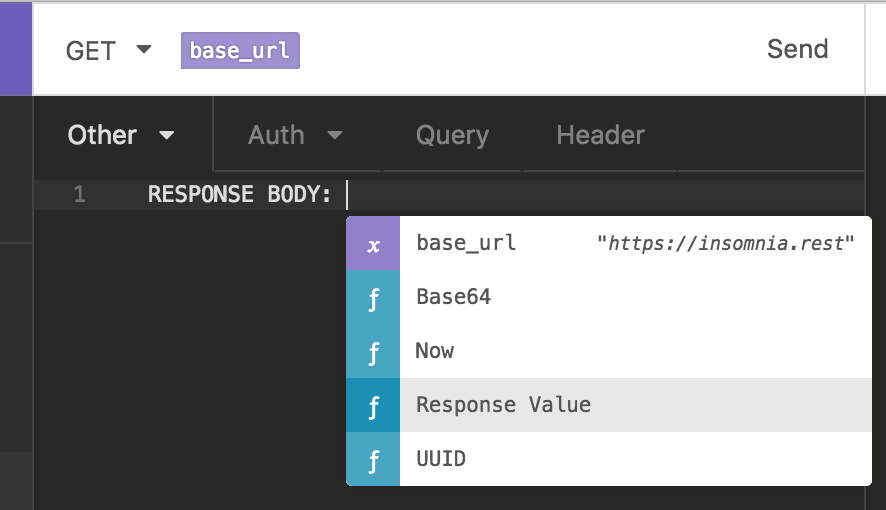
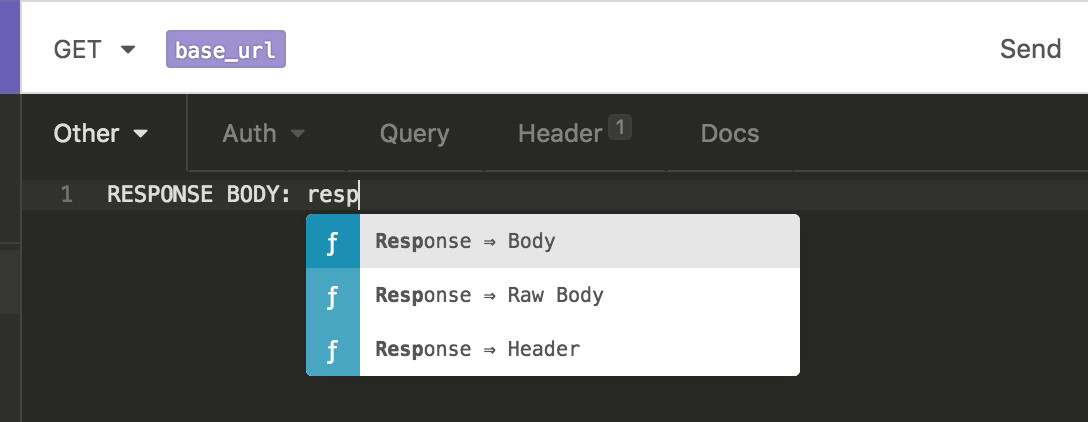
Updated docs

diff --git a/site/layouts/documentation/list.html b/site/layouts/documentation/list.html
@@ -1,5 +1,5 @@
 {{ partial "head" . }}
-<body class="template-docs">
+<body class="template-wide">
 
 {{ partial "navbar" . }}
 
@@ -7,36 +7,34 @@
   <div class="container">
     <div class="row">
       {{ partial "docs-sidebar" . }}
-      <div class="col-8">
-        <article class="docs-main">
-          <header><h1>Documentation</h1></header>
+      <article class="col-8 docs-content">
+        <header><h1>Documentation</h1></header>
+        <section class="content">
+          <p>
+            Welcome to the documentation for <a href="/">Insomnia</a>.
+            Insomnia is a beautiful cross-platform application for organizing, running, and
+            debugging HTTP requests.
+          </p>
 
-          <section class="content">
-            <p>
-              Welcome to the documentation for <a href="/">Insomnia</a>.
-              Insomnia is a beautiful cross-platform application for organizing, running, and
-              debugging HTTP requests.
-            </p>
+          <p>
+            <img alt="Screenshot of Insomnia HTTP Client" src="/images/docs/promo.png"/>
+          </p>
 
-            <p>
-              <img alt="Screenshot of Insomnia HTTP Client" src="/images/docs/promo.png"/>
-            </p>
+          <p>
+            Here are a few useful links to get you started.
+          </p>
 
-            <p>
-              Here are a few useful links to get you started.
-            </p>
+          <ul>
+            <li>Stuck? <a href="/documentation/faq">Frequently Asked Questions</a></li>
+            <li>Upgrading from the Chrome app? <a href="/documentation/migrate-from-chrome">Upgrade
+              Guide</a></li>
+            <li>Need more help? <a href="/documentation/support-and-feedback">Get in Touch</a></li>
+            <li>Curious about the product? <a href="/documentation/backstory">Backstory</a></li>
+          </ul>
+        </section>
 
-            <ul>
-              <li>Stuck? <a href="/documentation/faq">Frequently Asked Questions</a></li>
-              <li>Upgrading from the Chrome app? <a href="/documentation/migrate-from-chrome">Upgrade Guide</a></li>
-              <li>Need more help? <a href="/documentation/support-and-feedback">Get in Touch</a></li>
-              <li>Curious about the product? <a href="/documentation/backstory">Backstory</a></li>
-            </ul>
-          </section>
-
-          {{ partial "contribution-notice" . }}
-        </article>
-      </div>
+        {{ partial "contribution-notice" . }}
+      </article>
     </div>
   </div>
 

diff --git a/site/static/css/main.css b/site/static/css/main.css
@@ -313,7 +313,7 @@ article h3[id]:hover::before {
 /* ~~~~~~~ */
 
 .docs-sidebar {
-    margin-left: 0;
+    max-width: 15rem;
 }
 
 .docs-sidebar ul {
@@ -323,11 +323,12 @@ article h3[id]:hover::before {
 
 .docs-sidebar li {
     list-style: none;
+    width: 100%;
 }
 
 .docs-sidebar__entry {
     padding: 0.2rem 0;
-    display: block;
+    display: inline-block;
     font-weight: normal;
 }
 
@@ -455,23 +456,28 @@ body[data-logged-in="no"] .show-logged-out {
         content: "↓";
     }
 
-    .navbar__items li[data-menu-item="download"] {
-        display: none;
-    }
-}
-
-@media only screen and (max-width: 58rem) {
     .docs-sidebar {
         border-bottom: 1px solid #eee;
         padding-bottom: 2rem;
+        max-width: none;
     }
 
     .docs-sidebar li {
         display: inline-block;
+        width: auto;
     }
 
-    .docs-sidebar__entry {
-        margin: 0 1rem
+    .docs-sidebar li {
+        margin-right: 0.5rem;
+    }
+
+    .docs-sidebar li:not(:last-child)::after {
+        margin-left: 0.5rem;
+        content: '|';
+    }
+
+    .navbar__items li[data-menu-item="download"] {
+        display: none;
     }
 }
 

diff --git a/site/themes/hugo-insomnia-theme/layouts/documentation/single.html b/site/themes/hugo-insomnia-theme/layouts/documentation/single.html
@@ -1,5 +1,5 @@
 {{ partial "head" . }}
-<body class="template-docs">
+<body class="template-wide">
 
 {{ partial "navbar" . }}
 
@@ -7,22 +7,20 @@
   <div class="container">
     <div class="row">
       {{ partial "docs-sidebar" . }}
-      <div class="col-8">
-        <article class="docs-main">
-          <header>
-            <h1>{{ .Title | title }}</h1>
-            {{ if isset .Params "subtitle" }}
-            <strong class="subtle">{{ .Params.subtitle | markdownify }}</strong>
-            {{ end }}
-          </header>
+      <article class="col-8 docs-content">
+        <header>
+          <h1>{{ .Title | title }}</h1>
+          {{ if isset .Params "subtitle" }}
+          <strong class="subtle">{{ .Params.subtitle | markdownify }}</strong>
+          {{ end }}
+        </header>
 
-          <section class="content">
-            {{ .Content }}
-          </section>
+        <section class="content">
+          {{ .Content }}
+        </section>
 
-          {{ partial "contribution-notice" . }}
-        </article>
-      </div>
+        {{ partial "contribution-notice" . }}
+      </article>
     </div>
   </div>
 

diff --git a/webpack.config.babel.js b/webpack.config.babel.js
@@ -1,7 +1,6 @@
 import webpack from 'webpack';
 import path from 'path';
 
-const libraryName = 'app';
 const isDev = process.env.NODE_ENV !== 'production';
 
 let outputFile;
@@ -11,13 +10,13 @@ let stripePubKey;
 let extraPlugins;
 
 if (isDev) {
-  outputFile = `${libraryName}.min.js`;
+  outputFile = `[name].min.js`;
   devtool = 'source-map';
   env = 'development';
   stripePubKey = 'pk_test_MbOhGu5jCPvr7Jt4VC6oySdH';
   extraPlugins = [];
 } else {
-  outputFile = `${libraryName}.min.js`;
+  outputFile = `[name].min.js`;
   devtool = 'source-map';
   env = 'production';
   stripePubKey = 'pk_live_lntbVSXY3v1RAytACIQJ5BBH';
@@ -33,14 +32,14 @@ if (isDev) {
 
 export default {
   context: path.join(__dirname, './src'),
-  entry: [
-    './index.js'
-  ],
+  entry: {
+    app: './index.js',
+    main: './main.js'
+  },
   devtool,
   output: {
     path: path.resolve('./site/static/javascript/build'),
     filename: outputFile,
-    library: libraryName,
     libraryTarget: 'umd',
     umdNamedDefine: true
   },

diff --git a/site/themes/hugo-insomnia-theme/static/css/base.css b/site/themes/hugo-insomnia-theme/static/css/base.css
@@ -998,8 +998,9 @@ body.template-skinny main {
     margin-right: auto;
 }
 
-body.template-wide main {
-    max-width: 100%;
+body.template-wide .container {
+    max-width: 60rem;
+    width: 90%;
 }
 
 body.template-splash main h2 {
@@ -1019,9 +1020,6 @@ body.template-blog article > header {
 body.template-app main {
     max-width: 44rem;
     margin: auto;
-}
-
-body.template-docs .container {
 }
 
 /* ~~~~~~~~~~~~ */

diff --git a/site/themes/hugo-insomnia-theme/layouts/partials/docs-sidebar.html b/site/themes/hugo-insomnia-theme/layouts/partials/docs-sidebar.html
@@ -1,4 +1,4 @@
-<aside class="col-3 docs-sidebar">
+<aside class="col-4 docs-sidebar">
 
     {{ $currentNode := . }}
     {{ range .Site.Menus.docs }}
@@ -22,4 +22,3 @@
 
     {{ end }}
 </aside>
-<div class="col-1"></div>

diff --git a/site/themes/hugo-insomnia-theme/layouts/wide/single.html b/site/themes/hugo-insomnia-theme/layouts/wide/single.html
@@ -20,7 +20,7 @@
     </header>
     {{ end }}
 
-    <section class="content container">
+    <section class="container">
       <div class="row">
         <div class="col-12">
           {{ .Content }}

diff --git a/site/content/documentation/topics/environments.md b/site/content/documentation/topics/environments.md
@@ -26,6 +26,10 @@ in one place. The environment is defined as JSON, and you can put whatever you w
 }
 ```
 
+<p class="notice warn">
+Variable names <strong>must only</strong> contain letters, numbers, and underscores
+</p>
+
 You can reference the environment in any request by using the
 [Nunjucks](https://mozilla.github.io/nunjucks/) template syntax.
 
@@ -47,7 +51,6 @@ You can reference the environment in any request by using the
   "locale": "{{ locales.english }}"
 }
 ```
-
 
 ## Managing Environments
 
@@ -78,3 +81,25 @@ for development and production.
 
 For more fine-grained control, you can override environment variables at the folder level. 
 You can access theses overrides from the folder dropdown in the sidebar.
+
+
+## Recursive Environments
+
+Environment variables can contain other environment variables. A common use case for this
+is building the base URL for a service:
+
+```json
+{
+  "base_url": "https://{{ host }}/api/{{ version }}"
+}
+```
+
+Then, these can be overridden in a sub environment, as needed:
+
+```json
+{
+  "host": "production.api.com",
+  "version": "1.3"
+}
+```
+

diff --git a/site/content/documentation/topics/chaining.md b/site/content/documentation/topics/chaining.md
@@ -13,17 +13,17 @@ This is currently an experimental feature
 </p>
 
 Insomnia provides the ability to reference response values of other requests. Select
-**Response Value** from the auto-completed tags.
+**Response ⇒ Body** from the auto-completed tags.
 
 <img title="Response tag hint" src="/images/docs/response-tag-hint.png" class="small" />
 
-Then, click the tag to select the request and specify the desired response attribute.
+Then, click the tag to select the request and specify the desired parameters.
+
+![Request chaining dialog](/images/docs/response-tag.png)
 
 <p class="notice info">
 <strong>Tip!</strong> Use this inside an environment to prevent duplicated effort
 </p>
-
-![Request chaining dialog](/images/docs/response-tag.png)
 
 ## Common Uses
 
